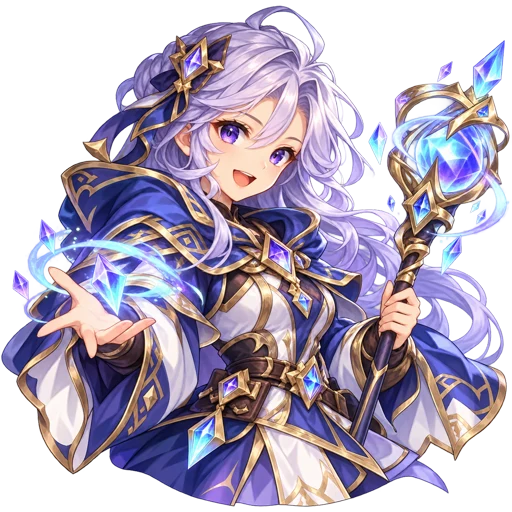
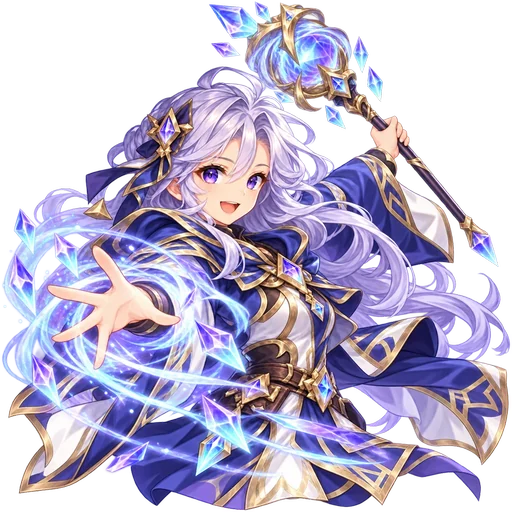
feat: update male and female mage artwork

diff --git a/avatar-art.js b/avatar-art.js
@@ -1,7 +1,7 @@
 (function(){'use strict';
 var art={
   warrior:{male:'assets/avatars/warrior.webp?v=20260911-hq',female:'assets/avatars/variants/warrior-female.webp?v=20260911-hq'},
-  mage:{male:'assets/avatars/mage.webp?v=20260911-hq',female:'assets/avatars/variants/mage-female.webp?v=20260911-hq'},
+  mage:{male:'assets/avatars/mage.webp?v=20260918-casting',female:'assets/avatars/variants/mage-female.webp?v=20260918-casting'},
   pugilist:{male:'assets/avatars/variants/pugilist-male.webp?v=20260911-hq',female:'assets/avatars/pugilist.webp?v=20260911-hq'},
   ranger:{male:'assets/avatars/variants/ranger-male.webp?v=20260911-hq',female:'assets/avatars/ranger.webp?v=20260917-skins'}
 };

diff --git a/art-direction.html b/art-direction.html
@@ -46,7 +46,7 @@
           <section class="hero-card">
             <div class="level-chip">LV.12</div>
             <div class="hero-copy"><small>ARCANE SCHOLAR</small><h3>블리자드</h3><span>마법사 · 서리 기록관</span></div>
-            <img src="assets/avatars/mage.webp?v=20260911-hq" alt="마법사 블리자드">
+            <img src="assets/avatars/mage.webp?v=20260918-casting" alt="마법사 블리자드">
             <div class="hero-orbit"></div>
           </section>
           <div class="progress-card"><div><span>다음 레벨까지</span><b>650 / 1,000 EXP</b></div><div class="xp"><i></i></div></div>
